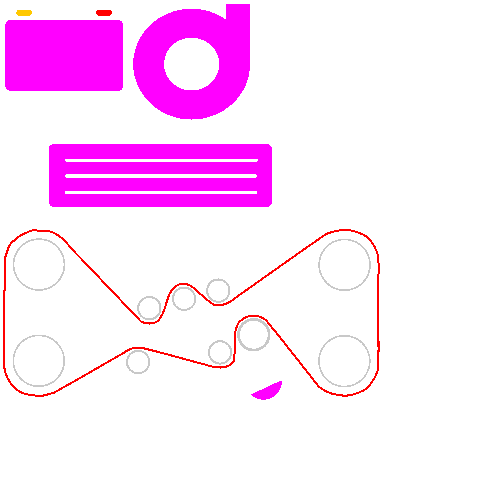
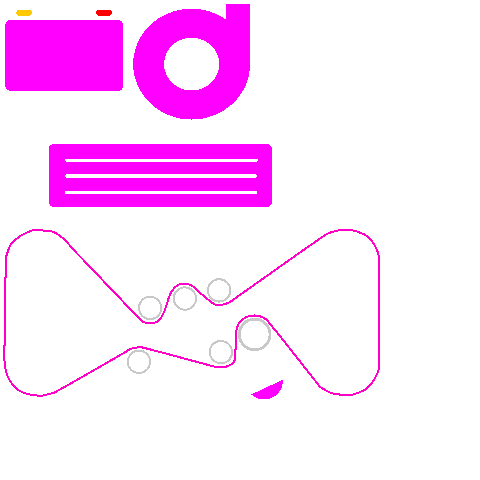
Added rotating engine cam gears based on rpm

diff --git a/src/gui.cpp b/src/gui.cpp
@@ -115,6 +115,51 @@ void GUI::draw_intercooler(Graphics* gfx, int cx, int cy, const EngineData& data
                         ic_color);
 }
 
+// Draw 4 cam gears rotating around the engine
+void GUI::draw_cam_gears(Graphics* gfx, int engine_cx, int engine_cy, const EngineData& data, float time_s) {
+  // Camshafts rotate at half crankshaft speed (2:1 ratio)
+  // Calculate rotation angle based on RPM and time
+  float cam_rpm = data.rpm / 2.0f;
+  float revolutions_per_second = cam_rpm / 60.0f;
+  const float TWO_PI = 2.0f * 3.14159f;
+  float angle = revolutions_per_second * time_s * TWO_PI;
+
+  // Normalize angle to prevent floating point precision issues
+  // Keep angle within 0 to 2π range
+  angle = fmodf(angle, TWO_PI);
+  if (angle < 0) angle += TWO_PI;
+
+  // Get framebuffer
+  uint16_t* fb = gfx->get_framebuffer();
+  int fb_w = gfx->get_width();
+  int fb_h = gfx->get_height();
+
+  // Calculate engine sprite's top-left corner
+  // engine_cx and engine_cy are the center of the engine (384x192 sprite)
+  int engine_left = engine_cx - spr_motor_block.w / 2;
+  int engine_top = engine_cy - spr_motor_block.h / 2;
+
+  // Cam gear positions relative to engine sprite (centers)
+  // Positions given: (43, 39), (348, 49), (42, 134), (348, 134)
+  int gear1_x = engine_left + 40;
+  int gear1_y = engine_top + 39;
+
+  int gear2_x = engine_left + 345;
+  int gear2_y = engine_top + 39;
+
+  int gear3_x = engine_left + 40;
+  int gear3_y = engine_top + 135;
+
+  int gear4_x = engine_left + 345;
+  int gear4_y = engine_top + 134;
+
+  // Draw all 4 cam gears rotating at the same speed
+  atlas.draw_rotated(fb, fb_w, fb_h, spr_cam_gear, gear1_x, gear1_y, angle, true);
+  atlas.draw_rotated(fb, fb_w, fb_h, spr_cam_gear, gear2_x, gear2_y, angle, true);
+  atlas.draw_rotated(fb, fb_w, fb_h, spr_cam_gear, gear3_x, gear3_y, angle, true);
+  atlas.draw_rotated(fb, fb_w, fb_h, spr_cam_gear, gear4_x, gear4_y, angle, true);
+}
+
 // Draw battery with vertical fill level
 void GUI::draw_battery(Graphics* gfx, int cx, int cy, const EngineData& data) {
   // For now, use throttle as a placeholder for battery level
@@ -210,6 +255,9 @@ void GUI::init() {
   // Engine: (0, 224) to (383, 415) = 384x192
   spr_motor_block = {0, 224, 384, 192};
 
+  // Cam gear: (256, 0) to (319, 63) = 64x64
+  spr_cam_gear = {256, 0, 64, 64};
+
   printf("GUI sprites initialized\n");
 }
 
@@ -238,6 +286,7 @@ void GUI::render(Graphics* gfx, const EngineData& data, float time_s) {
 
   // Draw all components
   draw_ej_engine(gfx, engine_cx, engine_cy, data, time_s);
+  draw_cam_gears(gfx, engine_cx, engine_cy, data, time_s);
   draw_turbo(gfx, turbo_cx, turbo_cy, data, time_s);
   draw_intercooler(gfx, ic_cx, ic_cy, data);
   draw_battery(gfx, battery_cx, battery_cy, data);

diff --git a/src/graphics/sprite.cpp b/src/graphics/sprite.cpp
@@ -1,6 +1,7 @@
 #include "sprite.hpp"
 #include <cstring>
 #include <cstdio>
+#include <cmath>
 
 #ifdef PLATFORM_DESKTOP
 #include <cstdlib>
@@ -176,6 +177,53 @@ void SpriteAtlas::draw_with_color(uint16_t* fb, int fb_w, int fb_h,
       }
 
       fb[(y + dy) * fb_w + (x + dx)] = color;
+    }
+  }
+}
+
+// Draw sprite rotated around center point
+void SpriteAtlas::draw_rotated(uint16_t* fb, int fb_w, int fb_h,
+                               const Sprite& sprite, int cx, int cy,
+                               float angle_rad, bool transparent) {
+  if (!pixels) return;
+
+  float cos_a = cosf(angle_rad);
+  float sin_a = sinf(angle_rad);
+
+  float half_w = sprite.w / 2.0f;
+  float half_h = sprite.h / 2.0f;
+
+  // Bounding box for rotated sprite
+  float max_dim = sqrtf(sprite.w * sprite.w + sprite.h * sprite.h) / 2.0f + 1;
+
+  for (float dy = -max_dim; dy <= max_dim; dy++) {
+    for (float dx = -max_dim; dx <= max_dim; dx++) {
+      // Rotate point back to sprite space
+      float src_x = (dx * cos_a + dy * sin_a) + half_w;
+      float src_y = (-dx * sin_a + dy * cos_a) + half_h;
+
+      // Check if source point is within sprite bounds
+      if (src_x < 0 || src_x >= sprite.w || src_y < 0 || src_y >= sprite.h) continue;
+
+      // Calculate screen position
+      float screen_x = (float)cx + dx;
+      float screen_y = (float)cy + dy;
+
+      // Check if screen position is valid
+      if (screen_x < 0 || screen_x >= fb_w || screen_y < 0 || screen_y >= fb_h) continue;
+
+      // Get pixel from atlas
+      int atlas_x = sprite.x + src_x;
+      int atlas_y = sprite.y + src_y;
+
+      if (atlas_x >= width || atlas_y >= height) continue;
+
+      uint16_t color = pixels[atlas_y * width + atlas_x];
+
+      // Skip transparent pixels
+      if (transparent && color == BLACK_RGB565) continue;
+
+      fb[(int)screen_y * fb_w + (int)screen_x] = color;
     }
   }
 }

diff --git a/src/gui.hpp b/src/gui.hpp
@@ -23,11 +23,13 @@ private:
   Sprite spr_intercooler;
   Sprite spr_motor_block;
   Sprite spr_battery;
+  Sprite spr_cam_gear;
 
   // Helper functions for drawing individual components
   void draw_ej_engine(Graphics* gfx, int cx, int cy, const EngineData& data, float time_s);
   void draw_turbo(Graphics* gfx, int cx, int cy, const EngineData& data, float time_s);
   void draw_intercooler(Graphics* gfx, int cx, int cy, const EngineData& data);
   void draw_battery(Graphics* gfx, int cx, int cy, const EngineData& data);
+  void draw_cam_gears(Graphics* gfx, int engine_cx, int engine_cy, const EngineData& data, float time_s);
   void draw_top_rpm_bar(Graphics* gfx, const EngineData& data);
 };

diff --git a/src/graphics/sprite.hpp b/src/graphics/sprite.hpp
@@ -32,6 +32,11 @@ public:
                        const Sprite& sprite, int x, int y,
                        Color replace_color);
 
+  // Draw sprite rotated around center point
+  void draw_rotated(uint16_t* fb, int fb_w, int fb_h,
+                    const Sprite& sprite, int cx, int cy,
+                    float angle_rad, bool transparent = true);
+
   // Draw sprite with vertical fill level (0.0 = empty, 1.0 = full)
   // Fills from bottom to top
   void draw_with_fill(uint16_t* fb, int fb_w, int fb_h,
